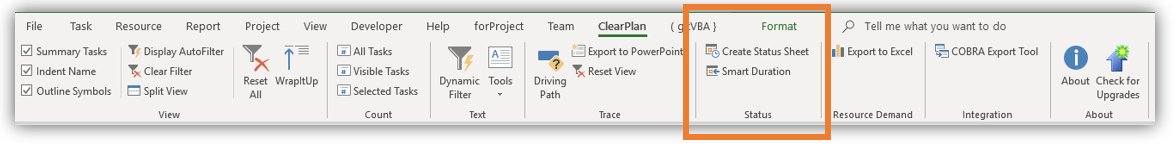
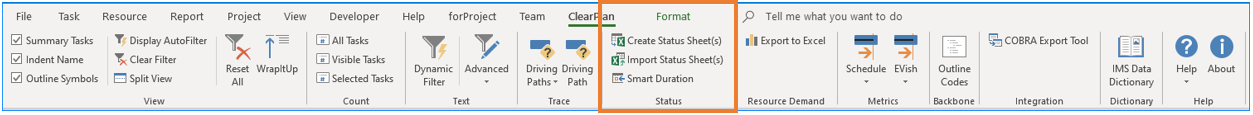
update user manual for v1.5.3

diff --git a/README.md b/README.md
@@ -2,7 +2,7 @@
 
 ![cpt](https://github.com/AronGahagan/cpt-dev/blob/develop/images/cpt.png?raw=true)
 
-<sub>_License: This software is provided gratis (free of charge), AS IS and without Warranty. It is free to use, and it is free to distribute **with prior written consent from the contributors/copyright holders** provided **no modifications are made**. Contributors retain their patents. All other rights reserved. Copyright &#169; 2019, contributors and ClearPlan Consulting, LLC._</sub>
+<sub>_License: This software is provided gratis (free of charge), AS IS and without Warranty. It is free to use, and it is free to distribute **with prior written consent from the contributors/copyright holders** provided **no modifications are made**. Contributors retain their patents. All other rights reserved. Copyright &#169; 2019-2020, contributors and ClearPlan Consulting, LLC._</sub>
 
 ---
 
@@ -26,8 +26,16 @@
     1. [Text Tools](#text-tools)
     1. [Trace Tools](#trace-tools)
     1. [Status Tools](#status-tools)
+        1. [Create Status Sheet](#create-status-sheet)
+        1. [Update Status Sheet](#update-status-sheet)
+        1. [Import Status Sheet](#import-status-sheet)
     1. [Resource Demand](#resource-demand)
+    1. [QuickMetrics](#quickmetrics)
+        1. [Schedule Metrics](#schedule-metrics)
+        1. [EVish Metrics](#evish-metrics)
+    1. [Backbone](#backbone)
     1. [Integration Tools](#integration-tools)
+    1. [Data Dictionary](#data-dictionary)
 1. [Help](#help)
 1. [Credits](#credits)
 
@@ -39,13 +47,14 @@
 1. Microsoft Project Standard or Professional 2013+
 1. Microsoft Office (Outlook, Excel, Word, PowerPoint)
 1. Internet Connection preferred, but not required
+1. Some features may require that `.NET 3.5` be enabled. From your start menu, search for 'Turn Windows Features On or Off' (a control panel setting) and be sure `.NET 3.5` is enabled.
 
 [[top]](#table-of-contents)
 
 ---
 
 ## Installation
-_Note: this tool is not currently designed (nor has it been tested) for use with Microsoft Project Server._
+_Note: this tool is not currently designed (nor has it been tested) for use with Microsoft Project Server. Contact <a href="mailto:cpt@ClearPlanConsulting.com">cpt@ClearPlanConsulting.com</a> for further information or if you would like to explore a custom installation for your Server environment._
 
 1. Enable Macros
     1. Open Microsoft Project, go to File > Options > Trust Center > Trust Center Settings...
@@ -55,7 +64,7 @@ _Note: this tool is not currently designed (nor has it been tested) for use with
     ![installation-02](https://github.com/AronGahagan/cpt-dev/blob/develop/images/installation-02.PNG?raw=true)
     1. Click **OK** a couple of times to close the dialogs
     1. Completely exit, and then restart, Microsoft Project (this makes the settings above 'stick')
-1. Download and open [cpt.mpp](https://github.com/AronGahagan/cpt-dev/releases/download/1.5.2/cpt_v1.5.2.mpp)
+1. Download and open [cpt.mpp](https://github.com/AronGahagan/cpt-dev/releases/download/1.5.3/cpt_v1.5.3.mpp)
 1. Open the **Organizer** and select the **Modules** tab:
     1. **If you have an internet connection:** copy the `cptSetup_bas` module into your Global.MPT
     1. **If you do not have an internet connection:** copy **all** modules prefixed with `cpt` into your Global.MPT
@@ -120,8 +129,50 @@ _Note: this tool is not currently designed (nor has it been tested) for use with
 ### Status Tools
 ![status](https://github.com/AronGahagan/cpt-dev/blob/develop/images/status.png?raw=true)
 
-1. _**Status Sheet**_ - Set a Project Status Date, then click this to create a simple Status Sheet turnaround document. Optionally add custom fields between UID and Task Name, which settings are saved for future runs. Options to create multiple worksheets or workbooks (per user-selected field) and/or send via email, are slated for a future release to be named.
-1. _**Smart Duration**_ - "That task will be done on November 25th." "Ok...uh...let's start guessing how many days of remaining duration I need to hit that date..." Ever done that? NO MORE! Select a task, click this button, enter your finish date, and it will Figure Out The Things for you automagically. Please be sure to confirm remaining work after the magic subsides.
+#### Create Status Sheet
+
+![status-sheet-form](https://github.com/AronGahagan/cpt-dev/blob/develop/images/status-form.png?raw=true)
+
+1. Set a Project Status Date using Project > Project Information, or View > Status Date.
+1. Open the form and select: which field EV% is stored in; which field Earned Value Technique (e.g., LOE, 50/50, etc.).
+1. Choose whether to Hide Tasks Completed Before [a certain date]. E.g., set this to the previous status period to show tasks completed since the last update. If unchecked, the status sheet will include all incomplete tasks.
+1. Choose whether to create: A Single Workbook (all tasks on one sheet); A Worksheet For Each (a single workbook, but with separate worksheets for each [CAM, CWBS, IPT, etc.]; or A Workbook For Each [CAM, WBS, IPT], etc.]. If you select one of the 'For Each' options, you can further refine your output by selecting one or more items in the selected custom field. E.g., if you select _A Workbook For Each_ and you designate the _CAM_ custom field, a separate workbook will be created for each selected CAM and that CAM's name will be included in the file name.
+1. Optionally create an email with the created file attached. If you select _A Single Workbook_ or _A Worksheet For Each_ a single email will be created. If you select _A Workbook For Each_ a separate email will be created for each [item] in the selected custom field.
+1. Optionally add custom fields between the UID and Task Name fields in the created workbook(s). Use the yellow search filter to find fields, and the right-arrow button to add it to your Export List. Use the double right-arrow to add all selected fields at once. Similarly, use the single or double left arrows to remove fields from your Export List. Use the plus and minus buttons to reorder the fields in your created workbook(s). Note that as you add/remove/reorder fields to your Export List, the current view will be updated to reflect your options--to provide you with a 'preview' of the created workbook(s). The structure of the tasks (summary levels) in the current view (whether native summary tasks or group by summaries) will be reflected in your created workbook(s).
+1. When you have selected all of the above options, click **Create**. The yellow status bar will notify you of progress. Because we include many conditinal formats to catch invalid data, the export may take a couple of minutes to complete.
+1. Created workbooks will be saved to C:\Users\\[username]\CP_Status_Sheets\\[Project_Name]\\[Status Date]\\. All worksheets are protected; updates will only be permitted in empty _Actual Start/Actual Finish_ fields, _New Forecast Start/New Forecast Finish_ fields, the _New EV%_ field, the _New ETC_ field, and the _Reason / Action / Impact_ field, which are highlighted.
+1. If you have a resource-loaded schedule, the status sheet will include editable Assignment-level cells for Remaining Work for Work (labor) resources, or Remaining Cost for Material resources.
+
+_Notes:_ Your choices will be saved between sessions. These settings are saved locally, so are not shared between users. If a saved custom field does not exist in the currently active project, you will be prompted to remove it.
+
+#### Update Status Sheet
+![update-status-sheet](https://github.com/AronGahagan/cpt-dev/blob/develop/images/status-update.png?raw=true)
+
+1. Stakeholders should open the received Status Update workbooks and make changes to the editable fields (AS/AF, FS/FS, New EV%, New ETC, R/A/I). Built-in conditional formatting will catch common entry errors, such as: Actual Finish <> NA and EV% < 100% or ETC > 0; Actual Finish = NA and EV% = 100 or ETC = 0, etc.
+1. Stakeholders may not add or remove tasks or assignments via the Status Sheet--this must (and should) only be done via the Scheduler in the live IMS.
+1. If forecast dates change significantly the spreadsheet does not duplicate Total Slack calculations (that's what MS Project is for).
+1. Collect returned status sheets in a new directory somewhere handy. You will be able to import one or many at a time.
+
+_Notes:_ Your choices will be saved between sessions. These settings are saved locally, so are not shared between users. If a saved custom field does not exist in the currently active project, you will be prompted to remove it.
+
+#### Import Status Sheet
+The _Import Status Sheet_ feature allows you to automatically import updates to custom fields in your IMS for further review and analysis before being applied to the IMS. 
+
+![status-import-form](https://github.com/AronGahagan/cpt-dev/blob/develop/images/status-import-form.png?raw=true)
+
+1. Open the Import Status Sheet Form.
+1. Click _Select Files..._, navigate to the directory where returned status workbooks are stored, and make your selections. They will be listed in the ListBox on the form.
+1. Select where to import Actual Start dates: any of the 10 local custom Start fields, the local custom 10 Date fields, or (careful!) choose to import directly to the Actual Start field. Likewise for Actual Finish: any of the 10 local custom Finish fields, the 10 local custom Date fields, or the Actual Finish fields are available. Do not select the same custom Date field for both Start and Finish.
+1. Select where to import the _New EV%_: any of the 20 local custom Number fields are available.
+1. Select where to import the _Assignment ETC_: any of the 20 local custom Number fields are available. (Note that these values will be imported to the _Assignment_ level.)
+1. Optionally choose to import the _R/A/I_ values to the Task Notes. You may choose to prepend to, append to, or overwrite, existing Task Notes.
+1. Save your file before importing in case there are any issues.
+1. Click **Import**, change your view to Task Usage, and review changes. Once you have reviewed and approved the updates, manually update the values in the live fields (i.e., forecast start/finish, EV%, and Remaining Work), with the values in your selected local custom fields.
+
+_Notes:_ Your import choices will be saved between sessions. These settings are saved locally, so are not shared between users. If a saved custom field does not exist in the currently active project, you will be prompted to reassign it before importing updates.
+
+#### Smart Duration
+1. "That task will be done on November 25th." "Ok...uh...let's start guessing how many days of remaining duration I need to hit that date..." Ever done that? NO MORE! Select a task, click this button, enter your finish date, and it will Figure Out The Things for you automagically. Please be sure to confirm remaining work after the magic subsides.
 
 [[up]](#use) | [[toc]](#table-of-contents)
 
@@ -136,10 +187,61 @@ _Note: this tool is not currently designed (nor has it been tested) for use with
 
 ---
 
+### QuickMetrics
+![quick-metrics](https://github.com/AronGahagan/cpt-dev/blob/develop/images/metrics.png?raw=true)
+
+1. _**Schedule Metrics**_
+    1. _CPLI_ - select a target task and click this to get a quick CPLI. 
+    1. _BEI_ - Baseline Execution Index. Assuming your project is baselined, get a quick BEI.
+    1. _Hit Task %_ - from the old Gold Card.
+1. _**EVish Metrics**_ - the following "EVish" metrics assume that your schedule is resource-loaded (using MS Project Assignments), baselined, and that EV% is stored in the build-in _Physical % Complete_ field:
+    1. _SPI_ - Ballpark Schedule Performance Index (in hours).
+    1. _SV_ - Ballpark Schedule Variance (in hours).
+    1. _BCWS_ - Budgeted Cost of Work Scheduled, a.k.a. Planned Value [PV] (in hours).
+    1. _BCWP_ - Budgeted Cost of Work Performed, a.k.a. Earned Value [EV] (in hours).
+
+[[up]](#use) | [[toc]](#table-of-contents)
+
+---
+
+### Backbone
+This feature helps you set up and manage Outline Codes (e.g., CWBS, IMP).
+
+![backbone](https://github.com/AronGahagan/cpt-dev/blob/develop/images/backbone.png?raw=true)
+
+1. Select the local custom Outline Code you want to work with. Existing lookup tables will be shown in the TreeView control below. If you make updates to the code while the form is open, the TreeView will refresh automatically.
+1. Select the **Import Code** option and choose an _Import Source_. You can import: 
+    1. A properly formatted Excel Workbook (*.xlsx). Required fields are CODE, LEVEL, and TITLE and must exist in range [A1:C1]. Be sure there are no empty rows of data in your import. To create a template for later import, click **Template**. Optionally, click _Also create task structure to automatically create summary/task structure. If unchecked, the import will only update the selected local custom Outlin Code picklist.
+    1. A generic MIL-STD-881D Appendix B (Electronic Systems). Note: this option will create new summaries and tasks in your active project. If this is not what you want, then run this in an empty *.mpp file, and simply import the resulting Outline Code from your empty *.mpp file into your live *.mpp file using the _Import_ button on MSP's built-in Custom Fields dialog.
+    1. The existing summary/task structure in the active project. This will use the native WBS field as the code, and the Task Name as the Description.
+    1. If the selected local custom Outline Code is not yet named, provide a name for it (e.g., "CWBS").
+    1. Once you have made your selections, click **Import**.
+1. Select the **Export Code** option to export the selected local custom Outline Code into: An Excel Workbook; "WBS Descriptive" CSV file for import to MPM; a CSV Code file for import to COBRA; or import into pre-formatted DI-MGMT-81334D for update. Note: the [DI-MGMT-81334D Template] (link required) is required; install it to your Microsoft Templates directory (usually located at C:\Users\\[username]\AppData\Roaming\Microsoft\Templates\).
+1. Selec the **Find/Replace** option to find and replace multiple instances of a word in the selected local custom Outline Code descriptions.
+
+[[up]](#use) | [[toc]](#table-of-contents)
+
+---
+
 ### Integration Tools
 ![integration](https://github.com/AronGahagan/cpt-dev/blob/develop/images/integration.png?raw=true)
 
-1. _**Export IMS to COBRA**_ - Exports the baselined schedule into *.csv formats for upload to COBRA [versions?]. This is a must-have. See the [Help Doc] (link needed) for more information.
+1. _**Export IMS to COBRA**_ - Creates the CSV-formatted import files for Baseline, Forecast, and Status for upload to COBRA. See the [Help Doc] (link needed) for more information.
+
+[[up]](#use) | [[toc]](#table-of-contents)
+
+---
+
+### Data Dictionary
+Store custom field descriptions and automatically generate an IMS Data Dictionary.
+
+![data-dictionary](https://github.com/AronGahagan/cpt-dev/blob/develop/images/data-dictionary.png?raw=true)
+
+1. Local and Enterprise Custom fields will be listed in the ListBox. Use the yellow search filter to find a specific field.
+1. Enter a Description in the Text Box. 
+1. Optionally export the IMS Data Dictionary to an Excel workbook. If desired, update the descriptons and import them. If you wish to share your data dictionary descriptions with others, export your entries and send to another user with the CPT installed, and they can import them. CAVEAT: be sure local custom fields are aligned between your file and theirs.
+
+_Note:_ Data Dictionary entries are stored _per project file_ and _per user_. 
 
 [[up]](#use) | [[toc]](#table-of-contents)
 
@@ -165,4 +267,4 @@ A special thanks to our developers and contributors, and to the ClearPlan leader
 
 ---
 
-<sub>Copyright &#169; 2019 ClearPlan Consulting, LLC. All Rights Reserved.</sub>
+<sub>Copyright &#169; 2019-2020 ClearPlan Consulting, LLC. All Rights Reserved.</sub>
